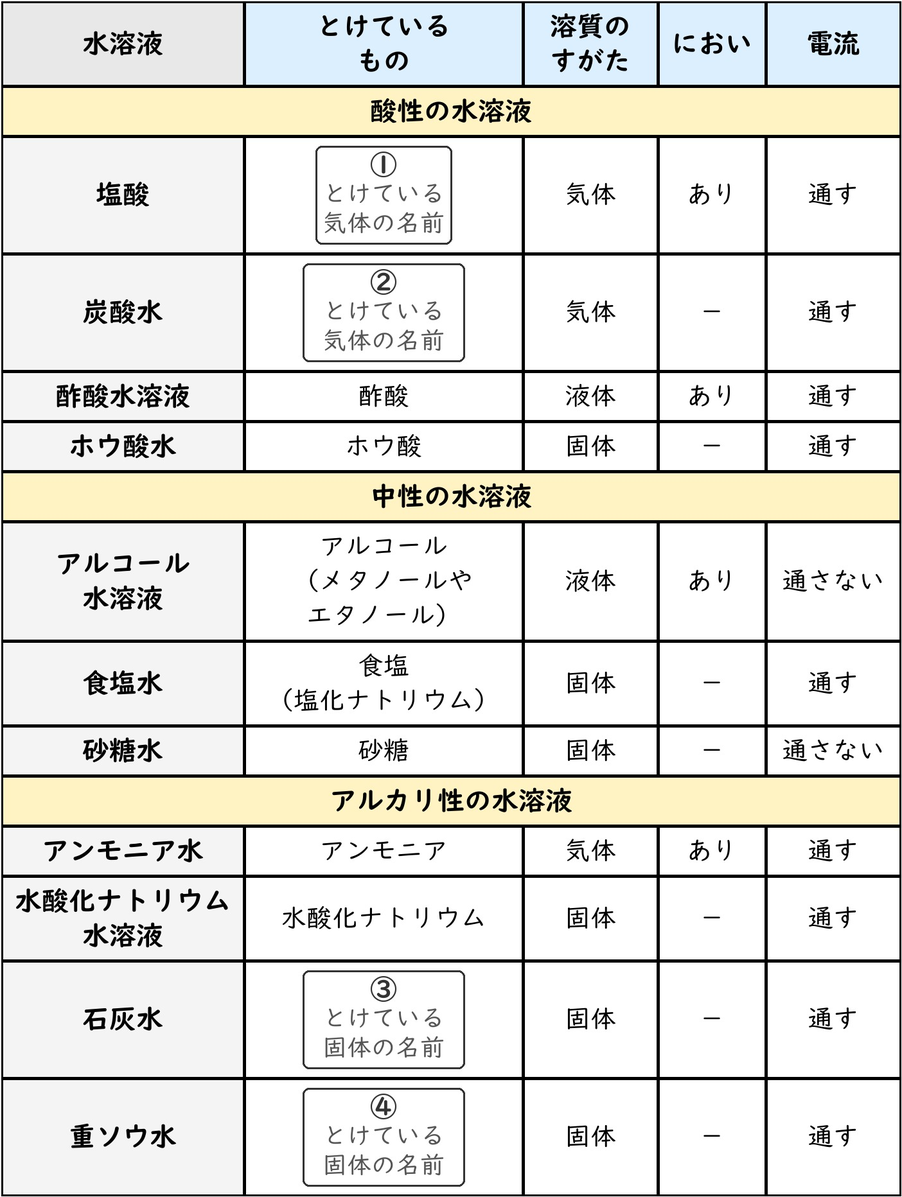
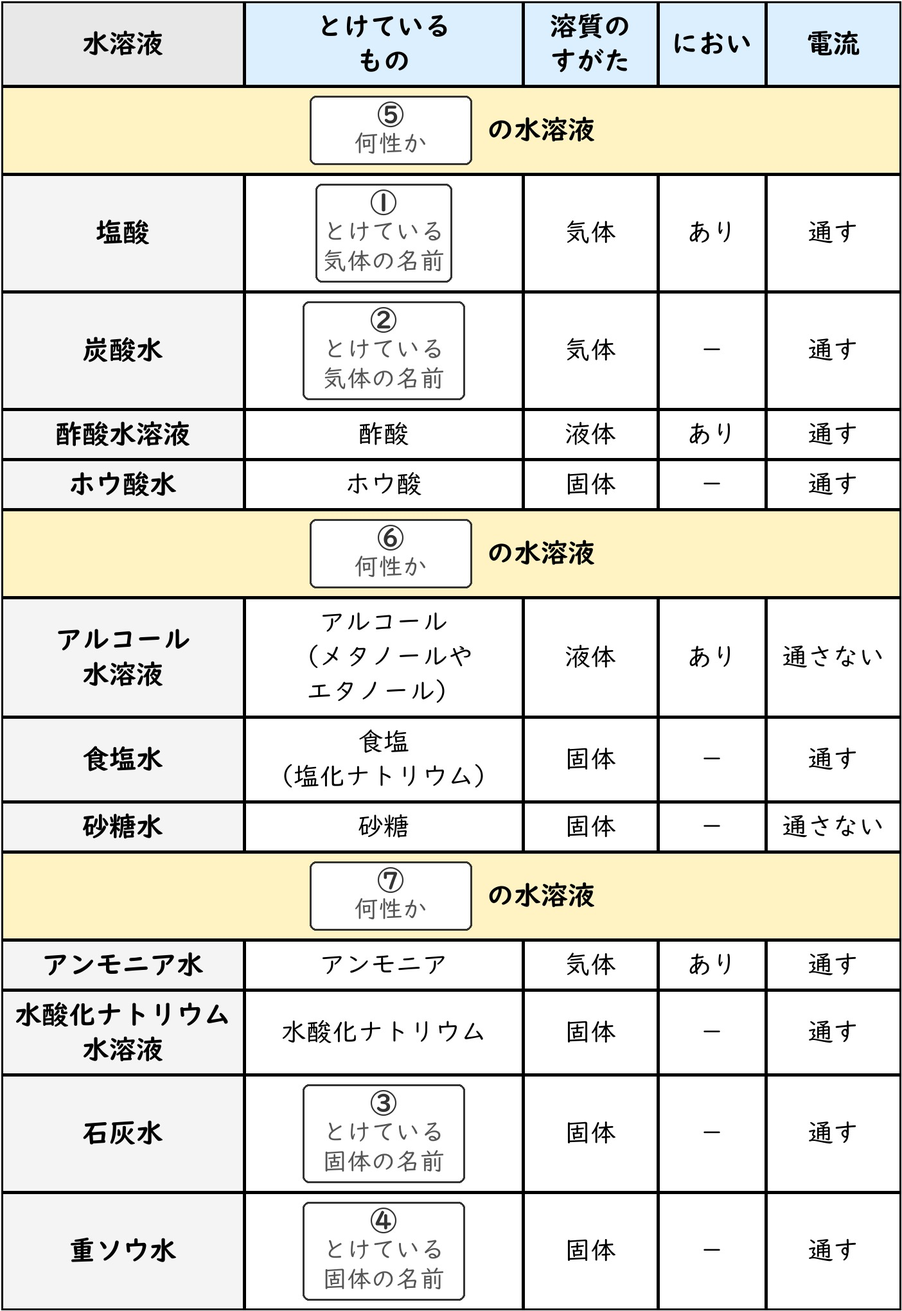
理科 第3回: 液性3問（⑤⑥⑦）を取り込み、表の画像とサイズを差し替え
- 消えた: r3m107 / r3m108 / r3m109（「◯つ答えなさい」の3問）
- 増えた: r3m128(⑤→酸性) / r3m129(⑥→中性) / r3m130(⑦→アルカリ性)
- 総数 1608問 → 1608問（±0）。中身が変わった id は0件（全問で q・a・img を比較）
- 社会・理科の他の回・calc は1つも動いていない（1406/55/12/59/76 で前後一致）
- images/r3_seishitsu.jpg 377,244 → 391,430 バイト（元の実物とバイト一致）
- IMG_SIZES "r3_seishitsu.jpg" [1404,1864] → [1404,2041]
  （437枚のうち変わったのはこの1枚だけ。IMG_SIZES 以外の差分は0）

★画像・サイズ・問題は同じコミットに入れてある。
　どれか1つでも古いと、⑤⑥⑦の無い表で「⑤は何性」と聞くことになるため。

検査: verify_data 問題なし / smoke 22/22 / test_settings_by_subject 16/16 /
      deleted_ids_probe r3m（59問すべて実機で出題・問題文と画像が全問一致・
      消した3問は0問とも出ず・JSエラー0）/ orphan_probe r3m107 /
      tier_align_probe / total_fill_probe すべて通過。
390px で表の①〜⑦と7問の対応を目視、全部一致。

依頼書: 司令塔\回答\対戦_理科第3回の液性3問を取り込む_依頼_2026-09-26.md

diff --git a/index.html b/index.html
@@ -2629,7 +2629,7 @@ function startConnectTimeout(side){
 // images/内の各画像の実サイズ。<img>にwidth/height属性を設定することで、
 // 読み込み前でも正しい縦横比の分だけ表示スペースを確保でき、
 // 画像読み込み完了時のレイアウトのガタつき（＝それに伴うタップのすれ違い）を防ぐ。
-const IMG_SIZES = {"img_01.jpg":[581,620],"img_02.jpg":[627,579],"img_03.jpg":[714,417],"img_04.jpg":[514,483],"img_05.jpg":[644,532],"img_06.jpg":[463,429],"img_07.jpg":[1156,446],"img_08.jpg":[573,586],"img_09.jpg":[506,198],"img_10.jpg":[497,146],"img_11.jpg":[503,499],"img_12.jpg":[518,578],"img_13.jpg":[746,621],"img_14.jpg":[713,567],"img_15.jpg":[658,628],"img_16.png":[642,589],"img_17.png":[535,597],"img_18.png":[510,295],"img_19.png":[1399,307],"img_20.png":[448,714],"img_21.png":[648,595],"img_22.png":[244,234],"img_23.jpg":[346,355],"img_24.jpg":[209,263],"img_25.jpg":[228,244],"kai1_01.jpg":[374,356],"kai1_02.jpg":[348,339],"kai1_03.jpg":[492,339],"kai1_04.jpg":[352,340],"kai1_05.jpg":[357,340],"kai1_06.jpg":[261,340],"kai1_07.jpg":[461,340],"kai1_08.jpg":[444,340],"kai1_09.jpg":[357,340],"kai1_10.jpg":[601,340],"kai1_11.jpg":[635,340],"kai1_12.jpg":[2019,1084],"kai1_13.jpg":[516,490],"kai1_14.jpg":[560,254],"kai1_15.jpg":[595,324],"kai1_17.jpg":[2028,783],"kai1_18.jpg":[2019,1084],"kai1_20.jpg":[2019,1084],"kai1_21.jpg":[2019,1084],"kai1_22.jpg":[595,569],"kai1_23.jpg":[595,569],"kai1_24.jpg":[2019,1084],"kai1_25.jpg":[595,569],"kai1_26.jpg":[595,569],"kai1_27.jpg":[700,508],"kai1_28.jpg":[951,720],"kai1_29.jpg":[2240,1180],"kai1_30.jpg":[1181,1244],"kai2_01.jpg":[697,350],"kai2_02.jpg":[769,524],"kai2_03.jpg":[529,297],"kai2_04.jpg":[529,313],"kai2_05.jpg":[1216,2126],"kai3_01.jpg":[530,460],"kai3_02.jpg":[680,460],"kai3_03.jpg":[700,460],"kai3_04.jpg":[675,330],"kai3_05.jpg":[2408,1775],"kai3_06.jpg":[1988,1222],"kai3_07.jpg":[1189,2001],"kai4_01.jpg":[1189,1839],"kai5_01.jpg":[1189,1027],"kai5_02.jpg":[743,534],"kaki_r1_01.jpg":[761,180],"kaki_r1_02.jpg":[761,206],"kaki_r1_03.jpg":[796,180],"kaki_r1_04.jpg":[761,179],"kaki_r1_05.jpg":[796,206],"kaki_r1_06.jpg":[830,214],"kaki_r1_07.jpg":[890,624],"kaki_r1_08.jpg":[430,380],"kaki_r1_map01.jpg":[1170,1210],"kaki_r1_map02.jpg":[1170,1210],"kaki_r1_map03.jpg":[1170,1210],"kaki_r1_map04.jpg":[1170,1210],"kaki_r1_map05.jpg":[1170,1210],"kaki_r1_map06.jpg":[1170,1210],"kaki_r1_map07.jpg":[1170,1210],"kaki_r1_map08.jpg":[1170,1210],"kaki_r1_map09.jpg":[1170,1210],"kaki_r1_map10.jpg":[1170,1210],"kaki_r1_map11.jpg":[1170,1210],"kaki_r1_map12.jpg":[1170,1210],"kaki_r1_map13.jpg":[1170,1210],"kaki_r1_map14.jpg":[1170,1210],"kaki_r1_map15.jpg":[1170,1210],"kaki_r2_graph01.jpg":[1215,1340],"kaki_r2_graph02.jpg":[1295,850],"kaki_r2_graph03.jpg":[1265,680],"kaki_r2_graph04.jpg":[1225,320],"kaki_r2_graph06.jpg":[1045,560],"kaki_r2_graph07.jpg":[700,870],"kaki_r2_map01.jpg":[1140,1090],"kaki_r2_map05.jpg":[1035,900],"kaki_r2_map07.jpg":[2315,1650],"kaki_r2_map08.jpg":[2315,1650],"kaki_r2_map09.jpg":[2315,1650],"kaki_r2_map10.jpg":[2315,1650],"kaki_r2_map11.jpg":[2315,1650],"kaki_r2_map12.jpg":[2315,1650],"kaki_r2_map13.jpg":[2315,1650],"kaki_r2_map14.jpg":[2315,1650],"kaki_r2_map15.jpg":[2315,1650],"kaki_r2_map16.jpg":[2315,1650],"kaki_r2_map17.jpg":[2315,1650],"kaki_r2_map18.jpg":[2315,1650],"kaki_r2_map19.jpg":[2315,1650],"kaki_r3_graph01.jpg":[1015,580],"kaki_r3_house01.jpg":[505,355],"kaki_r3_map01.jpg":[2415,3414],"kaki_r3_map02.jpg":[2415,3414],"kaki_r3_map03.jpg":[2415,3414],"kaki_r3_map04.jpg":[2415,3414],"kaki_r3_map05.jpg":[2415,3414],"kaki_r3_map06.jpg":[2415,3414],"kaki_r3_map07.jpg":[2415,3414],"kaki_r3_map08.jpg":[2415,3414],"kaki_r3_map09.jpg":[2415,3414],"kaki_r3_map10.jpg":[2415,3414],"kaki_r3_map11.jpg":[2415,3414],"kaki_r3_map12.jpg":[2415,3414],"kaki_r3_map13.jpg":[2415,3414],"kaki_r3_map14.jpg":[2415,3414],"kaki_r3_map15.jpg":[2415,3414],"kaki_r3_map16.jpg":[2415,3414],"kaki_r3_map17.jpg":[2415,3414],"kaki_r3_map18.jpg":[2415,3414],"kaki_r3_map19.jpg":[2415,3414],"kaki_r3_map20.jpg":[2415,3414],"kaki_r3_map21.jpg":[2415,3414],"kaki_r3_map22.jpg":[2415,3414],"kaki_r3_map23.jpg":[2415,3417],"kaki_r3_map24.jpg":[2415,3417],"kaki_r3_map25.jpg":[2415,3417],"kaki_r3_map26.jpg":[2415,3417],"kaki_r3_map27.jpg":[2415,3417],"kaki_r3_map28.jpg":[2415,3417],"kaki_r3_map29.jpg":[2415,3417],"kaki_r3_map30.jpg":[2415,3417],"kaki_r3_map31.jpg":[2415,3417],"kaki_r3_map32.jpg":[2415,3417],"kaki_r3_map33.jpg":[2415,3417],"kaki_r3_map34.jpg":[2415,3417],"kaki_r3_map35.jpg":[2415,3417],"kaki_r3_map36.jpg":[2415,3417],"kaki_r3_map37.jpg":[1265,910],"kaki_r3_shapes.jpg":[2315,480],"kaki_r4_graph01.jpg":[910,300],"kaki_r4_graph02.jpg":[760,200],"kaki_r4_map01.jpg":[1610,980],"kaki_r4_map02.jpg":[1610,1380],"kaki_r4_map03.jpg":[540,570],"kaki_r4_map04.jpg":[1480,1310],"kaki_r4_map05.jpg":[1480,1310],"kaki_r4_map06.jpg":[1480,1310],"kaki_r4_map07.jpg":[1480,1310],"kaki_r4_map08.jpg":[1480,1310],"kaki_r4_map09.jpg":[1480,1310],"kaki_r4_map10.jpg":[1480,1310],"kaki_r4_map11.jpg":[1480,1310],"kaki_r4_map12.jpg":[1480,1310],"kaki_r4_map13.jpg":[1480,1310],"kaki_r4_map14.jpg":[1480,1310],"kaki_r4_map15.jpg":[1480,1310],"kaki_r4_map16.jpg":[1480,1310],"kaki_r4_map17.jpg":[1480,1310],"kaki_r4_map18.jpg":[1480,1310],"kaki_r4_map19.jpg":[1480,1310],"kaki_r4_map20.jpg":[1480,1310],"kaki_r4_map21.jpg":[1480,1310],"kaki_r4_map22.jpg":[1480,1310],"kaki_r4_map23.jpg":[1480,1310],"kaki_r4_map24.jpg":[1480,1310],"kaki_r4_map25.jpg":[1630,1440],"kaki_r4_map26.jpg":[1630,1440],"kaki_r4_map27.jpg":[1630,1440],"kaki_r4_map28.jpg":[1630,1440],"kaki_r4_map29.jpg":[1630,1440],"kaki_r4_map30.jpg":[1630,1440],"kaki_r4_map31.jpg":[1630,1440],"kaki_r4_map32.jpg":[1630,1440],"kaki_r4_map33.jpg":[1630,1440],"kaki_r4_map34.jpg":[1630,1440],"kaki_r4_map35.jpg":[1630,1440],"kaki_r4_map36.jpg":[1630,1440],"kaki_r4_map37.jpg":[1630,1440],"kaki_r4_map38.jpg":[1630,1440],"kaki_r4_map39.jpg":[1630,1440],"kaki_r4_map40.jpg":[1630,1440],"kaki_r4_map41.jpg":[1630,1440],"kaki_r4_shapes01.jpg":[1470,520],"kaki_r4_shapes02.jpg":[1970,870],"kaki_r5_graph02.jpg":[610,665],"kaki_r5_graph05.jpg":[2105,343],"kaki_r5_map01.jpg":[1540,1550],"kaki_r5_map02.jpg":[1540,1550],"kaki_r5_map03.jpg":[1540,1550],"kaki_r5_map04.jpg":[1540,1550],"kaki_r5_map05.jpg":[1540,1550],"kaki_r5_map06.jpg":[1540,1550],"kaki_r5_map07.jpg":[1540,1550],"kaki_r5_map08.jpg":[1540,1550],"kaki_r5_map09.jpg":[1540,1550],"kaki_r5_map10.jpg":[1540,1550],"kaki_r5_map11.jpg":[1540,1550],"kaki_r5_map12.jpg":[1540,1550],"kaki_r5_map13.jpg":[1540,1550],"kaki_r5_map14.jpg":[1540,1550],"kaki_r5_map15.jpg":[1540,1550],"kaki_r5_map16.jpg":[1540,1550],"kaki_r5_map17.jpg":[1540,1550],"kaki_r5_map18.jpg":[1540,1550],"kaki_r5_map19.jpg":[1700,1740],"kaki_r5_map20.jpg":[1700,1740],"kaki_r5_map21.jpg":[1700,1740],"kaki_r5_map22.jpg":[1700,1740],"kaki_r5_map23.jpg":[1700,1740],"kaki_r5_map24.jpg":[1700,1740],"kaki_r5_map25.jpg":[1700,1740],"kaki_r5_map26.jpg":[1700,1740],"kaki_r5_map27.jpg":[1700,1740],"kaki_r5_map28.jpg":[1700,1740],"kaki_r5_map29.jpg":[1700,1740],"kaki_r5_map30.jpg":[1700,1740],"kaki_r5_map31.jpg":[1700,1740],"kaki_r5_map32.jpg":[540,600],"kaki_r5_shapes02.jpg":[800,635],"kaki_r5_shapes03.jpg":[460,480],"kaki_r5_table01.jpg":[1370,390],"kaki_r5_table02.jpg":[1170,580],"kaki_r6_graph01.jpg":[850,1005],"kaki_r6_map01.jpg":[1500,1320],"kaki_r6_map02.jpg":[1500,1320],"kaki_r6_map03.jpg":[1500,1320],"kaki_r6_map04.jpg":[1500,1320],"kaki_r6_map05.jpg":[1500,1320],"kaki_r6_map06.jpg":[1500,1320],"kaki_r6_map07.jpg":[1500,1320],"kaki_r6_map08.jpg":[1500,1320],"kaki_r6_map09.jpg":[1500,1320],"kaki_r6_map10.jpg":[1500,1320],"kaki_r6_map11.jpg":[1500,1320],"kaki_r6_map12.jpg":[1500,1320],"kaki_r6_map13.jpg":[1500,1320],"kaki_r6_map14.jpg":[1500,1320],"kaki_r6_map15.jpg":[1500,1320],"kaki_r6_map16.jpg":[1500,1320],"kaki_r6_map17.jpg":[1500,1320],"kaki_r6_map18.jpg":[1500,1320],"kaki_r6_map19.jpg":[1500,1320],"kaki_r6_map20.jpg":[1500,1320],"kaki_r6_map21.jpg":[1500,1320],"kaki_r6_map22.jpg":[1500,1320],"kaki_r6_map23.jpg":[1500,1320],"kaki_r6_map24.jpg":[1500,1320],"kaki_r6_map25.jpg":[1500,1320],"kaki_r6_map26.jpg":[1500,1320],"kaki_r6_map27.jpg":[1500,1320],"kaki_r6_map28.jpg":[1420,1480],"kaki_r6_map29.jpg":[1420,1480],"kaki_r6_map30.jpg":[1420,1480],"kaki_r6_map31.jpg":[1420,1480],"kaki_r6_map32.jpg":[1420,1480],"kaki_r6_map33.jpg":[1420,1480],"kaki_r6_map34.jpg":[1420,1480],"kaki_r6_map35.jpg":[1420,1480],"kaki_r6_map36.jpg":[1420,1480],"kaki_r6_map37.jpg":[1420,1480],"kaki_r6_map38.jpg":[1420,1480],"kaki_r6_map39.jpg":[1420,1480],"kaki_r6_map40.jpg":[1420,1480],"kaki_r6_map41.jpg":[1420,1480],"kaki_r6_map42.jpg":[1420,1480],"kaki_r6_map43.jpg":[1420,1480],"kaki_r6_map44.jpg":[1420,1480],"kaki_r6_map45.jpg":[1420,1480],"kaki_r6_map46.jpg":[1420,1480],"kaki_r6_map47.jpg":[1420,1480],"kaki_r6_map48.jpg":[750,845],"kaki_r6_map49.jpg":[600,700],"kaki_r6_table01.jpg":[2010,445],"kaki_r7_graph02.jpg":[720,340],"kaki_r7_map01.jpg":[1840,1620],"kaki_r7_map02.jpg":[1840,1620],"kaki_r7_map03.jpg":[1840,1620],"kaki_r7_map04.jpg":[1840,1620],"kaki_r7_map05.jpg":[1840,1620],"kaki_r7_map06.jpg":[1840,1620],"kaki_r7_map07.jpg":[1840,1620],"kaki_r7_map08.jpg":[1840,1620],"kaki_r7_map09.jpg":[1840,1620],"kaki_r7_map10.jpg":[1840,1620],"kaki_r7_map11.jpg":[1840,1620],"kaki_r7_map12.jpg":[1840,1620],"kaki_r7_map13.jpg":[1840,1620],"kaki_r7_map14.jpg":[1840,1620],"kaki_r7_map15.jpg":[1840,1620],"kaki_r7_map16.jpg":[1840,1620],"kaki_r7_map17.jpg":[1840,1620],"kaki_r7_map18.jpg":[1500,1620],"kaki_r7_map19.jpg":[1500,1620],"kaki_r7_map20.jpg":[1500,1620],"kaki_r7_map21.jpg":[1500,1620],"kaki_r7_map22.jpg":[1500,1620],"kaki_r7_map23.jpg":[1500,1620],"kaki_r7_map24.jpg":[1500,1620],"kaki_r7_map25.jpg":[1500,1620],"kaki_r7_map26.jpg":[1500,1620],"kaki_r7_map27.jpg":[1500,1620],"kaki_r7_map28.jpg":[1500,1620],"kaki_r7_map29.jpg":[1500,1620],"kaki_r7_map30.jpg":[1500,1620],"kaki_r7_map31.jpg":[1500,1620],"kaki_r7_map32.jpg":[1500,1620],"kaki_r7_map33.jpg":[1500,1620],"kaki_r7_map34.jpg":[1500,1620],"kaki_r7_map35.jpg":[1500,1620],"kaki_r7_map36.jpg":[680,550],"kaki_r7_table01.jpg":[1100,420],"kaki_r7_table02.jpg":[1730,890],"kaki_r8_map01.jpg":[1220,1720],"kaki_r8_map02.jpg":[1220,1720],"kaki_r8_map03.jpg":[1220,1720],"kaki_r8_map04.jpg":[1220,1720],"kaki_r8_map05.jpg":[1220,1720],"kaki_r8_map06.jpg":[1220,1720],"kaki_r8_map07.jpg":[1220,1720],"kaki_r8_map08.jpg":[1220,1720],"kaki_r8_map09.jpg":[1220,1720],"kaki_r8_map10.jpg":[1220,1720],"kaki_r8_map11.jpg":[1220,1720],"kaki_r8_map12.jpg":[1220,1720],"kaki_r8_map13.jpg":[1220,1720],"kaki_r8_map14.jpg":[1220,1720],"kaki_r8_map15.jpg":[1220,1720],"kaki_r8_map16.jpg":[1220,1720],"kaki_r8_map17.jpg":[1220,1720],"kaki_r8_map18.jpg":[1220,1720],"kaki_r8_map19.jpg":[1220,1720],"kaki_r8_map20.jpg":[1220,1720],"kaki_r8_map21.jpg":[1220,1720],"kaki_r8_map22.jpg":[1220,1720],"kaki_r8_map23.jpg":[1220,1720],"kaki_r8_map24.jpg":[1220,1720],"kaki_r8_map25.jpg":[1220,1720],"kaki_r8_map26.jpg":[1220,1720],"kaki_r8_map27.jpg":[1220,1720],"kaki_r8_map28.jpg":[1220,1720],"kaki_r8_map29.jpg":[1220,1720],"kaki_r8_map30.jpg":[1220,1720],"kaki_r8_map31.jpg":[1220,1720],"kaki_r8_map32.jpg":[1220,1720],"kaki_r8_map33.jpg":[1220,1720],"kaki_r8_map34.jpg":[1220,1720],"kaki_r8_map35.jpg":[1870,1560],"kaki_r8_map36.jpg":[1870,1560],"kaki_r8_map37.jpg":[1870,1560],"kaki_r8_map38.jpg":[1870,1560],"kaki_r8_map39.jpg":[1870,1560],"kaki_r8_map40.jpg":[1870,1560],"kaki_r8_map41.jpg":[1870,1560],"kaki_r8_map42.jpg":[1870,1560],"kaki_r8_map43.jpg":[1870,1560],"kaki_r8_map44.jpg":[1870,1560],"kaki_r8_map45.jpg":[1870,1560],"kaki_r8_map46.jpg":[1870,1560],"kaki_r8_map47.jpg":[1870,1560],"kaki_r8_map48.jpg":[1870,1560],"kaki_r8_map49.jpg":[1870,1560],"kaki_r8_map50.jpg":[1870,1560],"kaki_r8_map51.jpg":[1870,1560],"kaki_r8_map52.jpg":[1870,1560],"kaki_r8_map53.jpg":[1870,1560],"kaki_r8_map54.jpg":[1870,1560],"kaki_r8_map55.jpg":[1870,1560],"kaki_r8_map56.jpg":[1870,1560],"kaki_r8_map57.jpg":[1870,1560],"kaki_r8_map58.jpg":[640,630],"r1_01.jpg":[2188,900],"r1_02.jpg":[1130,1070],"r1_03.jpg":[1660,400],"r1_04.jpg":[476,377],"r1_05.jpg":[1299,625],"r1_06.jpg":[950,360],"r1_shinrin.jpg":[1404,1075],"r2_01.jpg":[1400,673],"r2_02.jpg":[1400,365],"r2_03.jpg":[1400,346],"r2_04.jpg":[1400,997],"r2_05.jpg":[1400,692],"r2_06.jpg":[1392,600],"r2_07.jpg":[1392,623],"r2_08.jpg":[1392,701],"r2_09.jpg":[1419,823],"r2_10.jpg":[1419,823],"r2_11.jpg":[1419,823],"r2_12.jpg":[1419,956],"r2_13.jpg":[1419,956],"r2_14.jpg":[1419,956],"r2_15.jpg":[1400,946],"r2_16.jpg":[1400,946],"r2_17.jpg":[1400,946],"r2_18.jpg":[1400,883],"r2_19.jpg":[1400,883],"r2_20.jpg":[1427,1895],"r2_21.jpg":[1427,1895],"r2_22.jpg":[1427,1895],"r2_23.jpg":[1427,1895],"r2_24.jpg":[1427,1895],"r2_25.jpg":[1427,1895],"r2_26.jpg":[1410,1983],"r2_27.jpg":[1410,1983],"r2_28.jpg":[1410,1983],"r2_29.jpg":[1410,1983],"r2_30.jpg":[1419,946],"r2_31.jpg":[1419,946],"r2_32.jpg":[1419,946],"r2_33.jpg":[1419,946],"r2_34.jpg":[1419,538],"r2_35.jpg":[1419,538],"r2_36.jpg":[1419,538],"r2_37.jpg":[1419,538],"r2_38.jpg":[1419,546],"r2_39.jpg":[1401,913],"r2_40.jpg":[1401,1937],"r3_chuuwa.jpg":[1404,556],"r3_seishitsu.jpg":[1404,1864],"r3_shijiyaku.jpg":[1404,736],"r4_01.jpg":[880,1168],"r4_02.jpg":[1175,434],"r4_03.jpg":[759,1084],"r4_04.jpg":[1404,1960]};
+const IMG_SIZES = {"img_01.jpg":[581,620],"img_02.jpg":[627,579],"img_03.jpg":[714,417],"img_04.jpg":[514,483],"img_05.jpg":[644,532],"img_06.jpg":[463,429],"img_07.jpg":[1156,446],"img_08.jpg":[573,586],"img_09.jpg":[506,198],"img_10.jpg":[497,146],"img_11.jpg":[503,499],"img_12.jpg":[518,578],"img_13.jpg":[746,621],"img_14.jpg":[713,567],"img_15.jpg":[658,628],"img_16.png":[642,589],"img_17.png":[535,597],"img_18.png":[510,295],"img_19.png":[1399,307],"img_20.png":[448,714],"img_21.png":[648,595],"img_22.png":[244,234],"img_23.jpg":[346,355],"img_24.jpg":[209,263],"img_25.jpg":[228,244],"kai1_01.jpg":[374,356],"kai1_02.jpg":[348,339],"kai1_03.jpg":[492,339],"kai1_04.jpg":[352,340],"kai1_05.jpg":[357,340],"kai1_06.jpg":[261,340],"kai1_07.jpg":[461,340],"kai1_08.jpg":[444,340],"kai1_09.jpg":[357,340],"kai1_10.jpg":[601,340],"kai1_11.jpg":[635,340],"kai1_12.jpg":[2019,1084],"kai1_13.jpg":[516,490],"kai1_14.jpg":[560,254],"kai1_15.jpg":[595,324],"kai1_17.jpg":[2028,783],"kai1_18.jpg":[2019,1084],"kai1_20.jpg":[2019,1084],"kai1_21.jpg":[2019,1084],"kai1_22.jpg":[595,569],"kai1_23.jpg":[595,569],"kai1_24.jpg":[2019,1084],"kai1_25.jpg":[595,569],"kai1_26.jpg":[595,569],"kai1_27.jpg":[700,508],"kai1_28.jpg":[951,720],"kai1_29.jpg":[2240,1180],"kai1_30.jpg":[1181,1244],"kai2_01.jpg":[697,350],"kai2_02.jpg":[769,524],"kai2_03.jpg":[529,297],"kai2_04.jpg":[529,313],"kai2_05.jpg":[1216,2126],"kai3_01.jpg":[530,460],"kai3_02.jpg":[680,460],"kai3_03.jpg":[700,460],"kai3_04.jpg":[675,330],"kai3_05.jpg":[2408,1775],"kai3_06.jpg":[1988,1222],"kai3_07.jpg":[1189,2001],"kai4_01.jpg":[1189,1839],"kai5_01.jpg":[1189,1027],"kai5_02.jpg":[743,534],"kaki_r1_01.jpg":[761,180],"kaki_r1_02.jpg":[761,206],"kaki_r1_03.jpg":[796,180],"kaki_r1_04.jpg":[761,179],"kaki_r1_05.jpg":[796,206],"kaki_r1_06.jpg":[830,214],"kaki_r1_07.jpg":[890,624],"kaki_r1_08.jpg":[430,380],"kaki_r1_map01.jpg":[1170,1210],"kaki_r1_map02.jpg":[1170,1210],"kaki_r1_map03.jpg":[1170,1210],"kaki_r1_map04.jpg":[1170,1210],"kaki_r1_map05.jpg":[1170,1210],"kaki_r1_map06.jpg":[1170,1210],"kaki_r1_map07.jpg":[1170,1210],"kaki_r1_map08.jpg":[1170,1210],"kaki_r1_map09.jpg":[1170,1210],"kaki_r1_map10.jpg":[1170,1210],"kaki_r1_map11.jpg":[1170,1210],"kaki_r1_map12.jpg":[1170,1210],"kaki_r1_map13.jpg":[1170,1210],"kaki_r1_map14.jpg":[1170,1210],"kaki_r1_map15.jpg":[1170,1210],"kaki_r2_graph01.jpg":[1215,1340],"kaki_r2_graph02.jpg":[1295,850],"kaki_r2_graph03.jpg":[1265,680],"kaki_r2_graph04.jpg":[1225,320],"kaki_r2_graph06.jpg":[1045,560],"kaki_r2_graph07.jpg":[700,870],"kaki_r2_map01.jpg":[1140,1090],"kaki_r2_map05.jpg":[1035,900],"kaki_r2_map07.jpg":[2315,1650],"kaki_r2_map08.jpg":[2315,1650],"kaki_r2_map09.jpg":[2315,1650],"kaki_r2_map10.jpg":[2315,1650],"kaki_r2_map11.jpg":[2315,1650],"kaki_r2_map12.jpg":[2315,1650],"kaki_r2_map13.jpg":[2315,1650],"kaki_r2_map14.jpg":[2315,1650],"kaki_r2_map15.jpg":[2315,1650],"kaki_r2_map16.jpg":[2315,1650],"kaki_r2_map17.jpg":[2315,1650],"kaki_r2_map18.jpg":[2315,1650],"kaki_r2_map19.jpg":[2315,1650],"kaki_r3_graph01.jpg":[1015,580],"kaki_r3_house01.jpg":[505,355],"kaki_r3_map01.jpg":[2415,3414],"kaki_r3_map02.jpg":[2415,3414],"kaki_r3_map03.jpg":[2415,3414],"kaki_r3_map04.jpg":[2415,3414],"kaki_r3_map05.jpg":[2415,3414],"kaki_r3_map06.jpg":[2415,3414],"kaki_r3_map07.jpg":[2415,3414],"kaki_r3_map08.jpg":[2415,3414],"kaki_r3_map09.jpg":[2415,3414],"kaki_r3_map10.jpg":[2415,3414],"kaki_r3_map11.jpg":[2415,3414],"kaki_r3_map12.jpg":[2415,3414],"kaki_r3_map13.jpg":[2415,3414],"kaki_r3_map14.jpg":[2415,3414],"kaki_r3_map15.jpg":[2415,3414],"kaki_r3_map16.jpg":[2415,3414],"kaki_r3_map17.jpg":[2415,3414],"kaki_r3_map18.jpg":[2415,3414],"kaki_r3_map19.jpg":[2415,3414],"kaki_r3_map20.jpg":[2415,3414],"kaki_r3_map21.jpg":[2415,3414],"kaki_r3_map22.jpg":[2415,3414],"kaki_r3_map23.jpg":[2415,3417],"kaki_r3_map24.jpg":[2415,3417],"kaki_r3_map25.jpg":[2415,3417],"kaki_r3_map26.jpg":[2415,3417],"kaki_r3_map27.jpg":[2415,3417],"kaki_r3_map28.jpg":[2415,3417],"kaki_r3_map29.jpg":[2415,3417],"kaki_r3_map30.jpg":[2415,3417],"kaki_r3_map31.jpg":[2415,3417],"kaki_r3_map32.jpg":[2415,3417],"kaki_r3_map33.jpg":[2415,3417],"kaki_r3_map34.jpg":[2415,3417],"kaki_r3_map35.jpg":[2415,3417],"kaki_r3_map36.jpg":[2415,3417],"kaki_r3_map37.jpg":[1265,910],"kaki_r3_shapes.jpg":[2315,480],"kaki_r4_graph01.jpg":[910,300],"kaki_r4_graph02.jpg":[760,200],"kaki_r4_map01.jpg":[1610,980],"kaki_r4_map02.jpg":[1610,1380],"kaki_r4_map03.jpg":[540,570],"kaki_r4_map04.jpg":[1480,1310],"kaki_r4_map05.jpg":[1480,1310],"kaki_r4_map06.jpg":[1480,1310],"kaki_r4_map07.jpg":[1480,1310],"kaki_r4_map08.jpg":[1480,1310],"kaki_r4_map09.jpg":[1480,1310],"kaki_r4_map10.jpg":[1480,1310],"kaki_r4_map11.jpg":[1480,1310],"kaki_r4_map12.jpg":[1480,1310],"kaki_r4_map13.jpg":[1480,1310],"kaki_r4_map14.jpg":[1480,1310],"kaki_r4_map15.jpg":[1480,1310],"kaki_r4_map16.jpg":[1480,1310],"kaki_r4_map17.jpg":[1480,1310],"kaki_r4_map18.jpg":[1480,1310],"kaki_r4_map19.jpg":[1480,1310],"kaki_r4_map20.jpg":[1480,1310],"kaki_r4_map21.jpg":[1480,1310],"kaki_r4_map22.jpg":[1480,1310],"kaki_r4_map23.jpg":[1480,1310],"kaki_r4_map24.jpg":[1480,1310],"kaki_r4_map25.jpg":[1630,1440],"kaki_r4_map26.jpg":[1630,1440],"kaki_r4_map27.jpg":[1630,1440],"kaki_r4_map28.jpg":[1630,1440],"kaki_r4_map29.jpg":[1630,1440],"kaki_r4_map30.jpg":[1630,1440],"kaki_r4_map31.jpg":[1630,1440],"kaki_r4_map32.jpg":[1630,1440],"kaki_r4_map33.jpg":[1630,1440],"kaki_r4_map34.jpg":[1630,1440],"kaki_r4_map35.jpg":[1630,1440],"kaki_r4_map36.jpg":[1630,1440],"kaki_r4_map37.jpg":[1630,1440],"kaki_r4_map38.jpg":[1630,1440],"kaki_r4_map39.jpg":[1630,1440],"kaki_r4_map40.jpg":[1630,1440],"kaki_r4_map41.jpg":[1630,1440],"kaki_r4_shapes01.jpg":[1470,520],"kaki_r4_shapes02.jpg":[1970,870],"kaki_r5_graph02.jpg":[610,665],"kaki_r5_graph05.jpg":[2105,343],"kaki_r5_map01.jpg":[1540,1550],"kaki_r5_map02.jpg":[1540,1550],"kaki_r5_map03.jpg":[1540,1550],"kaki_r5_map04.jpg":[1540,1550],"kaki_r5_map05.jpg":[1540,1550],"kaki_r5_map06.jpg":[1540,1550],"kaki_r5_map07.jpg":[1540,1550],"kaki_r5_map08.jpg":[1540,1550],"kaki_r5_map09.jpg":[1540,1550],"kaki_r5_map10.jpg":[1540,1550],"kaki_r5_map11.jpg":[1540,1550],"kaki_r5_map12.jpg":[1540,1550],"kaki_r5_map13.jpg":[1540,1550],"kaki_r5_map14.jpg":[1540,1550],"kaki_r5_map15.jpg":[1540,1550],"kaki_r5_map16.jpg":[1540,1550],"kaki_r5_map17.jpg":[1540,1550],"kaki_r5_map18.jpg":[1540,1550],"kaki_r5_map19.jpg":[1700,1740],"kaki_r5_map20.jpg":[1700,1740],"kaki_r5_map21.jpg":[1700,1740],"kaki_r5_map22.jpg":[1700,1740],"kaki_r5_map23.jpg":[1700,1740],"kaki_r5_map24.jpg":[1700,1740],"kaki_r5_map25.jpg":[1700,1740],"kaki_r5_map26.jpg":[1700,1740],"kaki_r5_map27.jpg":[1700,1740],"kaki_r5_map28.jpg":[1700,1740],"kaki_r5_map29.jpg":[1700,1740],"kaki_r5_map30.jpg":[1700,1740],"kaki_r5_map31.jpg":[1700,1740],"kaki_r5_map32.jpg":[540,600],"kaki_r5_shapes02.jpg":[800,635],"kaki_r5_shapes03.jpg":[460,480],"kaki_r5_table01.jpg":[1370,390],"kaki_r5_table02.jpg":[1170,580],"kaki_r6_graph01.jpg":[850,1005],"kaki_r6_map01.jpg":[1500,1320],"kaki_r6_map02.jpg":[1500,1320],"kaki_r6_map03.jpg":[1500,1320],"kaki_r6_map04.jpg":[1500,1320],"kaki_r6_map05.jpg":[1500,1320],"kaki_r6_map06.jpg":[1500,1320],"kaki_r6_map07.jpg":[1500,1320],"kaki_r6_map08.jpg":[1500,1320],"kaki_r6_map09.jpg":[1500,1320],"kaki_r6_map10.jpg":[1500,1320],"kaki_r6_map11.jpg":[1500,1320],"kaki_r6_map12.jpg":[1500,1320],"kaki_r6_map13.jpg":[1500,1320],"kaki_r6_map14.jpg":[1500,1320],"kaki_r6_map15.jpg":[1500,1320],"kaki_r6_map16.jpg":[1500,1320],"kaki_r6_map17.jpg":[1500,1320],"kaki_r6_map18.jpg":[1500,1320],"kaki_r6_map19.jpg":[1500,1320],"kaki_r6_map20.jpg":[1500,1320],"kaki_r6_map21.jpg":[1500,1320],"kaki_r6_map22.jpg":[1500,1320],"kaki_r6_map23.jpg":[1500,1320],"kaki_r6_map24.jpg":[1500,1320],"kaki_r6_map25.jpg":[1500,1320],"kaki_r6_map26.jpg":[1500,1320],"kaki_r6_map27.jpg":[1500,1320],"kaki_r6_map28.jpg":[1420,1480],"kaki_r6_map29.jpg":[1420,1480],"kaki_r6_map30.jpg":[1420,1480],"kaki_r6_map31.jpg":[1420,1480],"kaki_r6_map32.jpg":[1420,1480],"kaki_r6_map33.jpg":[1420,1480],"kaki_r6_map34.jpg":[1420,1480],"kaki_r6_map35.jpg":[1420,1480],"kaki_r6_map36.jpg":[1420,1480],"kaki_r6_map37.jpg":[1420,1480],"kaki_r6_map38.jpg":[1420,1480],"kaki_r6_map39.jpg":[1420,1480],"kaki_r6_map40.jpg":[1420,1480],"kaki_r6_map41.jpg":[1420,1480],"kaki_r6_map42.jpg":[1420,1480],"kaki_r6_map43.jpg":[1420,1480],"kaki_r6_map44.jpg":[1420,1480],"kaki_r6_map45.jpg":[1420,1480],"kaki_r6_map46.jpg":[1420,1480],"kaki_r6_map47.jpg":[1420,1480],"kaki_r6_map48.jpg":[750,845],"kaki_r6_map49.jpg":[600,700],"kaki_r6_table01.jpg":[2010,445],"kaki_r7_graph02.jpg":[720,340],"kaki_r7_map01.jpg":[1840,1620],"kaki_r7_map02.jpg":[1840,1620],"kaki_r7_map03.jpg":[1840,1620],"kaki_r7_map04.jpg":[1840,1620],"kaki_r7_map05.jpg":[1840,1620],"kaki_r7_map06.jpg":[1840,1620],"kaki_r7_map07.jpg":[1840,1620],"kaki_r7_map08.jpg":[1840,1620],"kaki_r7_map09.jpg":[1840,1620],"kaki_r7_map10.jpg":[1840,1620],"kaki_r7_map11.jpg":[1840,1620],"kaki_r7_map12.jpg":[1840,1620],"kaki_r7_map13.jpg":[1840,1620],"kaki_r7_map14.jpg":[1840,1620],"kaki_r7_map15.jpg":[1840,1620],"kaki_r7_map16.jpg":[1840,1620],"kaki_r7_map17.jpg":[1840,1620],"kaki_r7_map18.jpg":[1500,1620],"kaki_r7_map19.jpg":[1500,1620],"kaki_r7_map20.jpg":[1500,1620],"kaki_r7_map21.jpg":[1500,1620],"kaki_r7_map22.jpg":[1500,1620],"kaki_r7_map23.jpg":[1500,1620],"kaki_r7_map24.jpg":[1500,1620],"kaki_r7_map25.jpg":[1500,1620],"kaki_r7_map26.jpg":[1500,1620],"kaki_r7_map27.jpg":[1500,1620],"kaki_r7_map28.jpg":[1500,1620],"kaki_r7_map29.jpg":[1500,1620],"kaki_r7_map30.jpg":[1500,1620],"kaki_r7_map31.jpg":[1500,1620],"kaki_r7_map32.jpg":[1500,1620],"kaki_r7_map33.jpg":[1500,1620],"kaki_r7_map34.jpg":[1500,1620],"kaki_r7_map35.jpg":[1500,1620],"kaki_r7_map36.jpg":[680,550],"kaki_r7_table01.jpg":[1100,420],"kaki_r7_table02.jpg":[1730,890],"kaki_r8_map01.jpg":[1220,1720],"kaki_r8_map02.jpg":[1220,1720],"kaki_r8_map03.jpg":[1220,1720],"kaki_r8_map04.jpg":[1220,1720],"kaki_r8_map05.jpg":[1220,1720],"kaki_r8_map06.jpg":[1220,1720],"kaki_r8_map07.jpg":[1220,1720],"kaki_r8_map08.jpg":[1220,1720],"kaki_r8_map09.jpg":[1220,1720],"kaki_r8_map10.jpg":[1220,1720],"kaki_r8_map11.jpg":[1220,1720],"kaki_r8_map12.jpg":[1220,1720],"kaki_r8_map13.jpg":[1220,1720],"kaki_r8_map14.jpg":[1220,1720],"kaki_r8_map15.jpg":[1220,1720],"kaki_r8_map16.jpg":[1220,1720],"kaki_r8_map17.jpg":[1220,1720],"kaki_r8_map18.jpg":[1220,1720],"kaki_r8_map19.jpg":[1220,1720],"kaki_r8_map20.jpg":[1220,1720],"kaki_r8_map21.jpg":[1220,1720],"kaki_r8_map22.jpg":[1220,1720],"kaki_r8_map23.jpg":[1220,1720],"kaki_r8_map24.jpg":[1220,1720],"kaki_r8_map25.jpg":[1220,1720],"kaki_r8_map26.jpg":[1220,1720],"kaki_r8_map27.jpg":[1220,1720],"kaki_r8_map28.jpg":[1220,1720],"kaki_r8_map29.jpg":[1220,1720],"kaki_r8_map30.jpg":[1220,1720],"kaki_r8_map31.jpg":[1220,1720],"kaki_r8_map32.jpg":[1220,1720],"kaki_r8_map33.jpg":[1220,1720],"kaki_r8_map34.jpg":[1220,1720],"kaki_r8_map35.jpg":[1870,1560],"kaki_r8_map36.jpg":[1870,1560],"kaki_r8_map37.jpg":[1870,1560],"kaki_r8_map38.jpg":[1870,1560],"kaki_r8_map39.jpg":[1870,1560],"kaki_r8_map40.jpg":[1870,1560],"kaki_r8_map41.jpg":[1870,1560],"kaki_r8_map42.jpg":[1870,1560],"kaki_r8_map43.jpg":[1870,1560],"kaki_r8_map44.jpg":[1870,1560],"kaki_r8_map45.jpg":[1870,1560],"kaki_r8_map46.jpg":[1870,1560],"kaki_r8_map47.jpg":[1870,1560],"kaki_r8_map48.jpg":[1870,1560],"kaki_r8_map49.jpg":[1870,1560],"kaki_r8_map50.jpg":[1870,1560],"kaki_r8_map51.jpg":[1870,1560],"kaki_r8_map52.jpg":[1870,1560],"kaki_r8_map53.jpg":[1870,1560],"kaki_r8_map54.jpg":[1870,1560],"kaki_r8_map55.jpg":[1870,1560],"kaki_r8_map56.jpg":[1870,1560],"kaki_r8_map57.jpg":[1870,1560],"kaki_r8_map58.jpg":[640,630],"r1_01.jpg":[2188,900],"r1_02.jpg":[1130,1070],"r1_03.jpg":[1660,400],"r1_04.jpg":[476,377],"r1_05.jpg":[1299,625],"r1_06.jpg":[950,360],"r1_shinrin.jpg":[1404,1075],"r2_01.jpg":[1400,673],"r2_02.jpg":[1400,365],"r2_03.jpg":[1400,346],"r2_04.jpg":[1400,997],"r2_05.jpg":[1400,692],"r2_06.jpg":[1392,600],"r2_07.jpg":[1392,623],"r2_08.jpg":[1392,701],"r2_09.jpg":[1419,823],"r2_10.jpg":[1419,823],"r2_11.jpg":[1419,823],"r2_12.jpg":[1419,956],"r2_13.jpg":[1419,956],"r2_14.jpg":[1419,956],"r2_15.jpg":[1400,946],"r2_16.jpg":[1400,946],"r2_17.jpg":[1400,946],"r2_18.jpg":[1400,883],"r2_19.jpg":[1400,883],"r2_20.jpg":[1427,1895],"r2_21.jpg":[1427,1895],"r2_22.jpg":[1427,1895],"r2_23.jpg":[1427,1895],"r2_24.jpg":[1427,1895],"r2_25.jpg":[1427,1895],"r2_26.jpg":[1410,1983],"r2_27.jpg":[1410,1983],"r2_28.jpg":[1410,1983],"r2_29.jpg":[1410,1983],"r2_30.jpg":[1419,946],"r2_31.jpg":[1419,946],"r2_32.jpg":[1419,946],"r2_33.jpg":[1419,946],"r2_34.jpg":[1419,538],"r2_35.jpg":[1419,538],"r2_36.jpg":[1419,538],"r2_37.jpg":[1419,538],"r2_38.jpg":[1419,546],"r2_39.jpg":[1401,913],"r2_40.jpg":[1401,1937],"r3_chuuwa.jpg":[1404,556],"r3_seishitsu.jpg":[1404,2041],"r3_shijiyaku.jpg":[1404,736],"r4_01.jpg":[880,1168],"r4_02.jpg":[1175,434],"r4_03.jpg":[759,1084],"r4_04.jpg":[1404,1960]};
 
 // 画像を差し替える際、幅・高さの属性も一緒に設定する（IMG_SIZESに無い画像はそのまま）
 // ---- 年表の空らんを赤丸で示す位置（画像の幅・高さに対する割合）----

diff --git a/data.js b/data.js
@@ -5758,42 +5758,6 @@ const QA_DATA = [
   "level": "基礎"
  },
  {
-  "id": "r3m107",
-  "subj": "理科",
-  "u": "第3回.水溶液の中和",
-  "q": "酸性の水溶液を4つ答えなさい。",
-  "note": "理科28〜30P（水溶液の分類・液性・電流を通す水溶液）",
-  "a": "塩酸・炭酸水・酢酸水溶液・ホウ酸水",
-  "kai": 3,
-  "kind": "memo",
-  "priority": "高",
-  "level": "基礎"
- },
- {
-  "id": "r3m108",
-  "subj": "理科",
-  "u": "第3回.水溶液の中和",
-  "q": "中性の水溶液を3つ答えなさい。",
-  "note": "理科28〜30P（水溶液の分類・液性・電流を通す水溶液）",
-  "a": "アルコール水溶液・食塩水・砂糖水",
-  "kai": 3,
-  "kind": "memo",
-  "priority": "高",
-  "level": "基礎"
- },
- {
-  "id": "r3m109",
-  "subj": "理科",
-  "u": "第3回.水溶液の中和",
-  "q": "アルカリ性の水溶液を4つ答えなさい。",
-  "note": "理科28〜30P（水溶液の分類・液性・電流を通す水溶液）",
-  "a": "アンモニア水・水酸化ナトリウム水溶液・石灰水・重ソウ水",
-  "kai": 3,
-  "kind": "memo",
-  "priority": "高",
-  "level": "基礎"
- },
- {
   "id": "r3m110",
   "subj": "理科",
   "u": "第3回.水溶液の中和",
@@ -6018,6 +5982,45 @@ const QA_DATA = [
   "note": "理科31・32P／演習問題集、21P、まとめ②",
   "a": "水酸化ナトリウム",
   "img": "r3_chuuwa.jpg",
+  "kai": 3,
+  "kind": "memo",
+  "priority": "高",
+  "level": "基礎"
+ },
+ {
+  "id": "r3m128",
+  "subj": "理科",
+  "u": "第3回.水溶液の中和",
+  "q": "【水溶液の表⑤】表の⑤は、何性の水溶液のなかまですか。",
+  "note": "理科28〜30P（水溶液の分類・液性・電流を通す水溶液）",
+  "a": "酸性",
+  "img": "r3_seishitsu.jpg",
+  "kai": 3,
+  "kind": "memo",
+  "priority": "高",
+  "level": "基礎"
+ },
+ {
+  "id": "r3m129",
+  "subj": "理科",
+  "u": "第3回.水溶液の中和",
+  "q": "【水溶液の表⑥】表の⑥は、何性の水溶液のなかまですか。",
+  "note": "理科28〜30P（水溶液の分類・液性・電流を通す水溶液）",
+  "a": "中性",
+  "img": "r3_seishitsu.jpg",
+  "kai": 3,
+  "kind": "memo",
+  "priority": "高",
+  "level": "基礎"
+ },
+ {
+  "id": "r3m130",
+  "subj": "理科",
+  "u": "第3回.水溶液の中和",
+  "q": "【水溶液の表⑦】表の⑦は、何性の水溶液のなかまですか。",
+  "note": "理科28〜30P（水溶液の分類・液性・電流を通す水溶液）",
+  "a": "アルカリ性",
+  "img": "r3_seishitsu.jpg",
   "kai": 3,
   "kind": "memo",
   "priority": "高",
